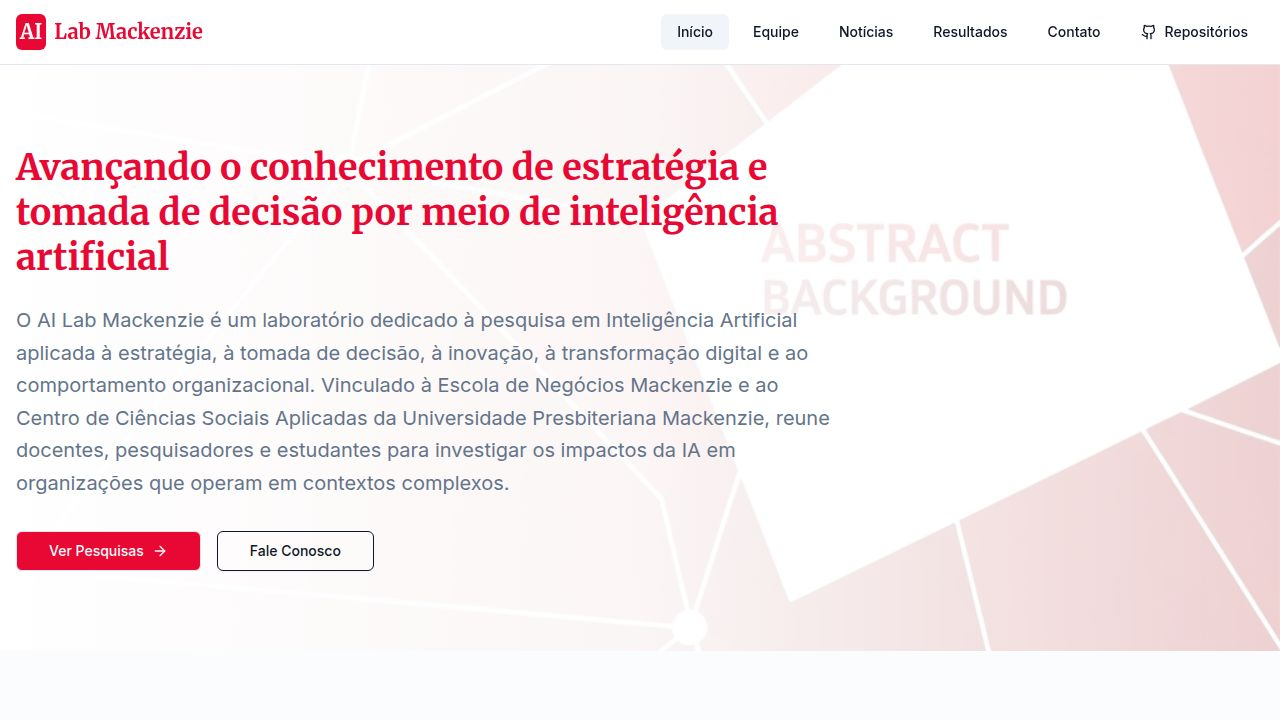
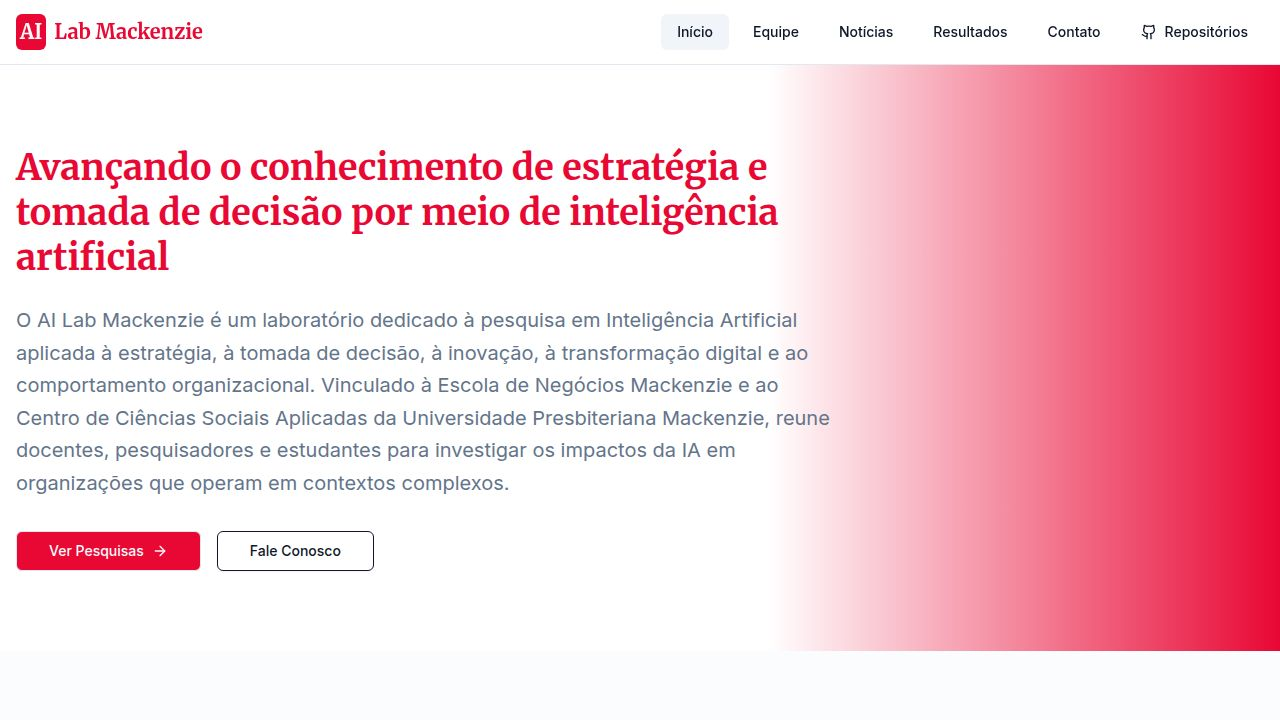
Update home page background to a gradient and adjust layout
Replaces abstract hero image with a linear gradient background and adjusts content width in client/src/pages/home.tsx.

Replit-Commit-Author: Agent
Replit-Commit-Session-Id: 199364d8-8eec-45eb-b4ce-46fb04c52d7f
Replit-Commit-Checkpoint-Type: full_checkpoint
Replit-Commit-Event-Id: 850e7ae1-919c-44ab-a52d-c878eee2a424
Replit-Commit-Screenshot-Url: https://storage.googleapis.com/screenshot-production-us-central1/15e460b5-ad50-4afb-8a0d-40889fc8ebe5/199364d8-8eec-45eb-b4ce-46fb04c52d7f/E7aXYvH
Replit-Helium-Checkpoint-Created: true

Changed region(s): [[0.625, 0.0917, 1.0, 0.9167]]

diff --git a/client/src/pages/home.tsx b/client/src/pages/home.tsx
@@ -3,7 +3,6 @@ import { Button } from "@/components/ui/button";
 import { Card, CardContent } from "@/components/ui/card";
 import { ArrowRight, Beaker, Users, FileText } from "lucide-react";
 import { Link } from "wouter";
-import heroImage from "@assets/generated_images/abstract_red_and_white_geometric_background_with_no_text.png";
 
 export default function Home() {
   return (
@@ -11,15 +10,7 @@ export default function Home() {
       <Navbar />
       
       {/* Hero Section */}
-      <section className="relative min-h-[500px] flex items-center overflow-hidden">
-        <div className="absolute inset-0 z-0">
-          <img 
-            src={heroImage} 
-            alt="Visualização de Pesquisa" 
-            className="w-full h-full object-cover opacity-20"
-          />
-          <div className="absolute inset-0 bg-gradient-to-r from-background via-background/80 to-transparent" />
-        </div>
+      <section className="relative min-h-[500px] flex items-center overflow-hidden bg-[linear-gradient(90deg,hsl(var(--background))_60%,hsl(var(--primary))_100%)]">
         
         <div className="container mx-auto px-4 relative z-10 py-20">
           <div className="w-full md:w-2/3">
